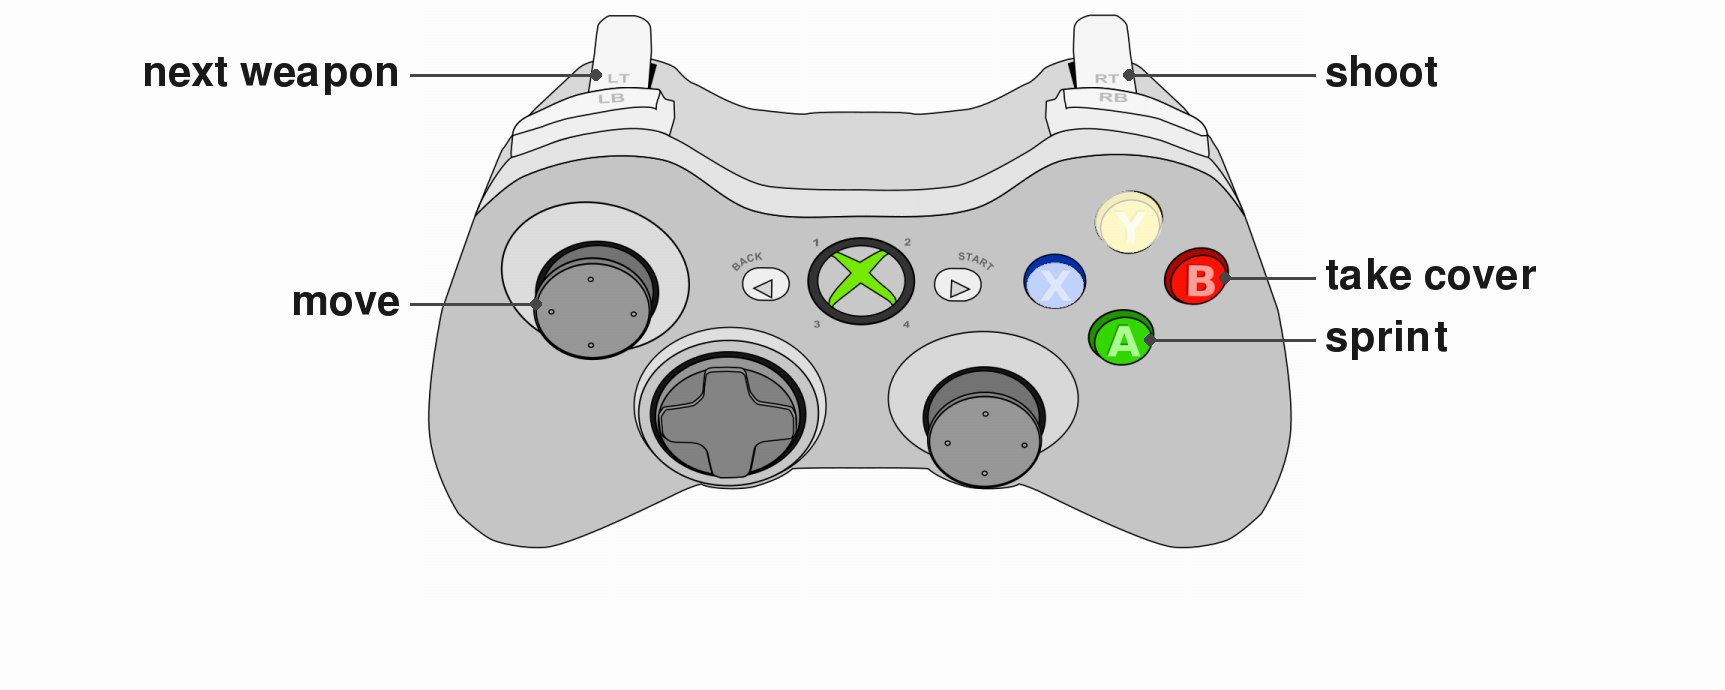
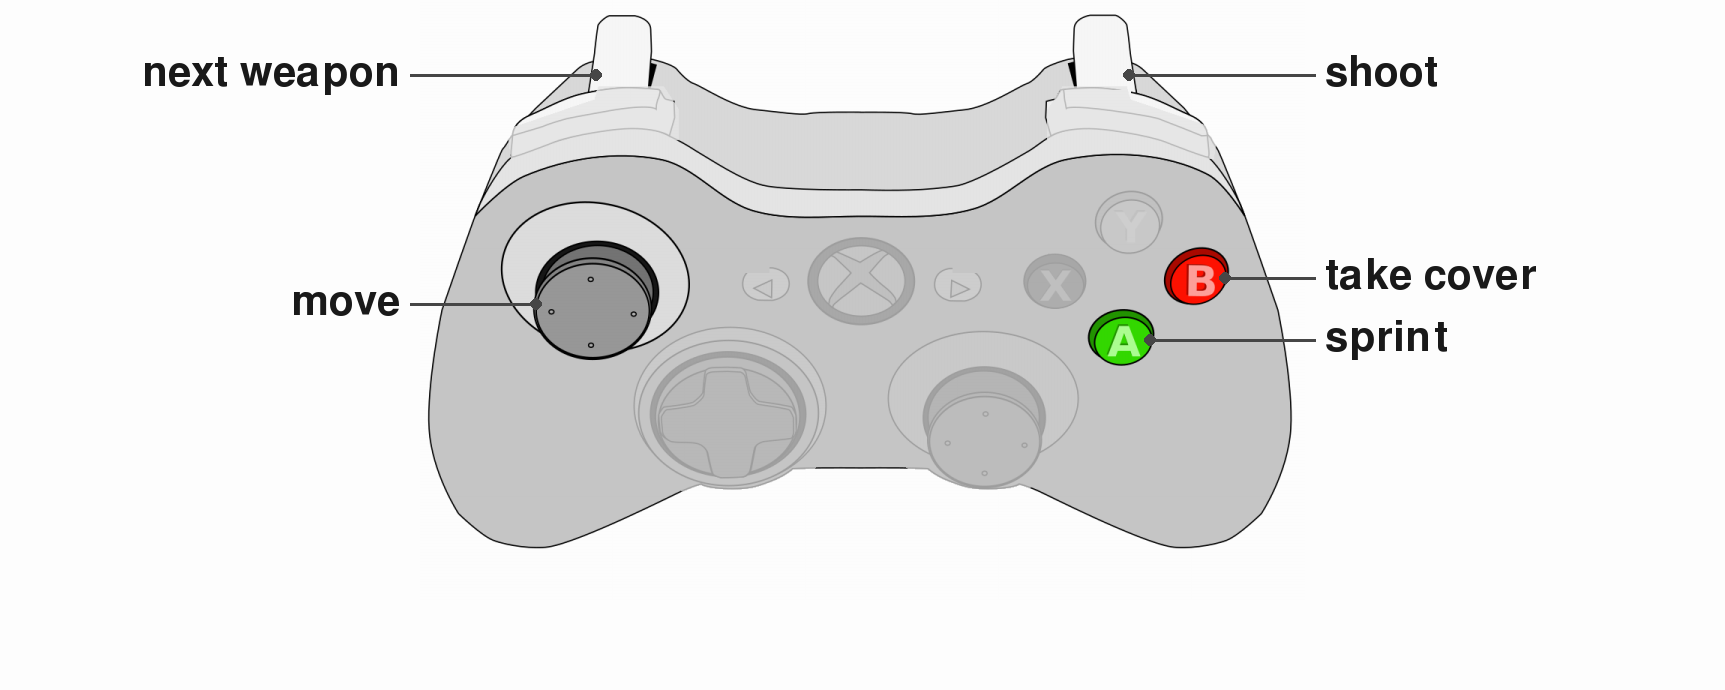
Controls images grey out every control a game leaves unused, and drop the printed names
The bumpers, D-pad, right stick, Back, Start and Guide, which no controller
rig has, are always greyed out, and so is any rig control the game leaves
unused: each fades to the colourless grey of the body around it, keeping a
fifth of its contrast, so the area's edge does not show. The names printed
on the drawing (LT, LB, RT, RB, BACK, START, 1-4) are painted over with the
surface they are printed on.

diff --git a/tools/controls_images.py b/tools/controls_images.py
@@ -3,7 +3,8 @@
 The labels file names the underlay (a drawing of an Xbox 360 controller, whose
 controls sit where :data:`CONTROLS` says) and maps each image, by its path from
 the file, to its labels: one control name (as a curriculum writes it) to the
-lines of text beside it. The controls a game leaves unused are washed out.
+lines of text beside it. The controls a game leaves unused are greyed out, as are
+the drawing's controls no controller rig has, and the names printed on it are painted over.
 A key starting with ``##`` is a comment.
 
     uv run python tools/controls_images.py configs/images/controls/labels.json
@@ -19,6 +20,7 @@ from pathlib import Path
 
 os.environ.setdefault("SDL_VIDEODRIVER", "dummy")
 os.environ.setdefault("PYGAME_HIDE_SUPPORT_PROMPT", "1")
+import numpy as np  # noqa: E402
 import pygame  # noqa: E402
 
 PAPER, TEXT, LEADER = (255, 255, 255), (25, 25, 25), (70, 70, 70)
@@ -28,12 +30,20 @@ CROP, SCALE = pygame.Rect(50, 50, 1180, 800), 0.75
 MARGIN, BELOW = 420, 90
 
 
+#: what an unused control fades to: its pixels keep this share of their contrast with
+#: the body's grey around it (this one when none is around), and lose their colour;
+#: the white around the drawing stays white
+GREYED_OUT_CONTRAST, GREYED_OUT_GREY = 0.2, 205
+
+
 @dataclass(frozen=True)
 class Control:
     """Where one control is on the underlay, in its own pixels."""
 
-    #: the area washed out when the game leaves the control unused
+    #: the area greyed out when the game leaves the control unused
     area: pygame.Rect
+    #: whether the area is the ellipse in that rect (a button, a stick) or the rect itself
+    is_round: bool
     #: where the leader line to its label starts
     anchor: tuple[int, int]
     #: which side of the controller its label goes: "left", "right" or "below"
@@ -41,19 +51,78 @@ class Control:
 
 
 CONTROLS = {
-    "LEFT_TRIGGER": Control(pygame.Rect(285, 69, 75, 95), (285, 150), "left"),
-    "RIGHT_TRIGGER": Control(pygame.Rect(920, 69, 75, 95), (995, 150), "right"),
-    "LEFT_STICK": Control(pygame.Rect(200, 375, 165, 165), (205, 456), "left"),
-    "BUTTON_Y": Control(pygame.Rect(950, 305, 90, 82), (1037, 345), "right"),
-    "BUTTON_B": Control(pygame.Rect(1050, 390, 76, 66), (1123, 421), "right"),
-    "BUTTON_A": Control(pygame.Rect(949, 472, 78, 64), (1024, 503), "right"),
-    "BUTTON_X": Control(pygame.Rect(859, 400, 76, 61), (896, 459), "below"),
+    "LEFT_TRIGGER": Control(pygame.Rect(285, 65, 77, 103), False, (285, 150), "left"),
+    "RIGHT_TRIGGER": Control(pygame.Rect(920, 65, 82, 103), False, (995, 150), "right"),
+    "LEFT_STICK": Control(pygame.Rect(138, 300, 288, 285), True, (205, 456), "left"),
+    "BUTTON_Y": Control(pygame.Rect(940, 296, 110, 104), True, (1037, 345), "right"),
+    "BUTTON_B": Control(pygame.Rect(1038, 380, 102, 92), True, (1123, 421), "right"),
+    "BUTTON_A": Control(pygame.Rect(936, 460, 104, 92), True, (1024, 503), "right"),
+    "BUTTON_X": Control(pygame.Rect(846, 388, 102, 90), True, (896, 459), "below"),
 }
+#: the drawing's controls no controller rig has, always greyed out: (area, is_round), an
+#: area being a rect or the corners of a polygon
+OTHER_CONTROLS = {
+    "LEFT_BUMPER": ([(166, 222), (283, 182), (288, 165), (374, 165), (394, 196), (394, 236),
+                     (172, 262)], False),
+    "RIGHT_BUMPER": ([(1114, 222), (997, 182), (992, 165), (906, 165), (886, 196), (886, 236),
+                      (1108, 262)], False),
+    "DPAD": (pygame.Rect(318, 470, 294, 248), True),
+    "RIGHT_STICK": (pygame.Rect(660, 470, 286, 242), True),
+    "BACK": (pygame.Rect(472, 396, 80, 62), True),
+    "START": (pygame.Rect(729, 396, 80, 62), True),
+    "GUIDE": (pygame.Rect(560, 356, 158, 134), True),
+}
+#: the names printed on the drawing (LT, LB, RT, RB, BACK, START, 1-4), painted over
+PRINTED_NAMES = [pygame.Rect(*r) for r in (
+    (298, 145, 36, 18), (285, 171, 50, 21), (948, 145, 37, 19), (953, 170, 45, 20),
+    (458, 378, 58, 36), (760, 378, 64, 36),
+    (572, 363, 14, 20), (692, 363, 16, 20), (572, 474, 14, 19), (692, 474, 14, 19))]
 
 
 def _on_image(point: tuple[int, int]) -> tuple[int, int]:
     """An underlay point, in the controls image's pixels."""
     return (MARGIN + round((point[0] - CROP.x) * SCALE), round((point[1] - CROP.y) * SCALE))
+
+
+def _area_mask(area: pygame.Rect | list[tuple[int, int]],
+               is_round: bool) -> tuple[pygame.Rect, np.ndarray]:
+    """An area's bounding rect, and which of its pixels (indexed x, y) are in the area."""
+    if isinstance(area, list):
+        xs, ys = zip(*area)
+        bounds = pygame.Rect(min(xs), min(ys), max(xs) - min(xs) + 1, max(ys) - min(ys) + 1)
+        stencil = pygame.Surface(bounds.size)
+        pygame.draw.polygon(stencil, (255, 255, 255), [(x - bounds.x, y - bounds.y) for x, y in area])
+        return bounds, pygame.surfarray.array_red(stencil) > 0
+    if not is_round:
+        return area, np.ones(area.size, bool)
+    x = (np.arange(area.width) + 0.5) / area.width * 2 - 1
+    y = (np.arange(area.height) + 0.5) / area.height * 2 - 1
+    return area, x[:, None] ** 2 + y[None, :] ** 2 <= 1
+
+
+def _grey_out(pixels: np.ndarray, area: pygame.Rect | list[tuple[int, int]],
+              is_round: bool) -> None:
+    """Fade the drawing in ``area`` to the colourless grey of the body around it.
+
+    Each pixel keeps :data:`GREYED_OUT_CONTRAST` of its contrast with that grey, which is
+    the median of the area's edge, so the area's border does not show.
+    """
+    area, mask = _area_mask(area, is_round)
+    region = pixels[area.left:area.right, area.top:area.bottom]
+    luminance = region @ np.array([0.299, 0.587, 0.114])
+    inside = mask & (luminance < 250)
+    edge = inside & ~(np.roll(mask, 3, 0) & np.roll(mask, -3, 0)
+                      & np.roll(mask, 3, 1) & np.roll(mask, -3, 1))
+    body = np.median(luminance[edge]) if edge.any() else GREYED_OUT_GREY
+    faded = body + (luminance - body) * GREYED_OUT_CONTRAST
+    region[inside] = np.round(faded[inside])[:, None]
+
+
+def _paint_over(pixels: np.ndarray, rect: pygame.Rect) -> None:
+    """Fill ``rect`` with the colour most of its edge has: the surface the text is printed on."""
+    region = pixels[rect.left:rect.right, rect.top:rect.bottom]
+    edge = np.concatenate([region[0], region[-1], region[:, 0], region[:, -1]])
+    region[:] = np.median(edge, axis=0).astype(np.uint8)
 
 
 def draw_label(canvas: pygame.Surface, font: pygame.font.Font, control: Control,
@@ -93,12 +162,15 @@ def write_controls_image(underlay: pygame.Surface, labels: dict[str, list[str]],
     if unknown:
         raise ValueError(f"{path.name}: unknown control(s) {sorted(unknown)}; the controls are "
                          f"{sorted(CONTROLS)}")
-    controller = underlay.subsurface(CROP).copy()
-    wash = pygame.Surface(controller.get_size(), pygame.SRCALPHA)
-    for name, control in CONTROLS.items():
-        if name not in labels:
-            pygame.draw.ellipse(wash, (*PAPER, 190), control.area.move(-CROP.x, -CROP.y))
-    controller.blit(wash, (0, 0))
+    drawing = underlay.copy()
+    pixels = pygame.surfarray.pixels3d(drawing)
+    for rect in PRINTED_NAMES:
+        _paint_over(pixels, rect)
+    unused = [(c.area, c.is_round) for name, c in CONTROLS.items() if name not in labels]
+    for area, is_round in unused + list(OTHER_CONTROLS.values()):
+        _grey_out(pixels, area, is_round)
+    del pixels
+    controller = drawing.subsurface(CROP).copy()
     size = (round(CROP.width * SCALE), round(CROP.height * SCALE))
     controller = pygame.transform.smoothscale(controller, size)
     canvas = pygame.Surface((size[0] + 2 * MARGIN, size[1] + BELOW))

diff --git a/.claude/skills/controls-images/SKILL.md b/.claude/skills/controls-images/SKILL.md
@@ -5,7 +5,7 @@ description: Make, edit or check a game's controls image (a gamepad drawing with
 
 # Controls images
 
-A screen's text shows an image where a line is only `![alt](path)`, the path from `configs/` (`fmri_gym/display.py`, `IMAGE_LINE`); a missing or unreadable image stops the run at load. The controls images are one PNG per controller curriculum's shared phase, `configs/images/controls/<backend>/<common file's name>.png`, each shown above that phase's Controls lines, which stay as text. They are drawn, never edited by hand: `configs/images/controls/labels.json` names the underlay (the Xbox 360 drawing in `configs/images/controllers/`) and, per image, each control (as a curriculum writes it, the stick as `LEFT_STICK`) with the lines beside it; `tools/controls_images.py` draws them all. A control with no label is washed out.
+A screen's text shows an image where a line is only `![alt](path)`, the path from `configs/` (`fmri_gym/display.py`, `IMAGE_LINE`); a missing or unreadable image stops the run at load. The controls images are one PNG per controller curriculum's shared phase, `configs/images/controls/<backend>/<common file's name>.png`, each shown above that phase's Controls lines, which stay as text. They are drawn, never edited by hand: `configs/images/controls/labels.json` names the underlay (the Xbox 360 drawing in `configs/images/controllers/`) and, per image, each control (as a curriculum writes it, the stick as `LEFT_STICK`) with the lines beside it; `tools/controls_images.py` draws them all. A control with no label is greyed out, as are the drawing's controls no controller rig has (bumpers, D-pad, right stick, Back, Start, Guide), and the names printed on the drawing are painted over; the areas are constants at the top of the tool, in the underlay's pixels.
 
 ## Make or change one
 
